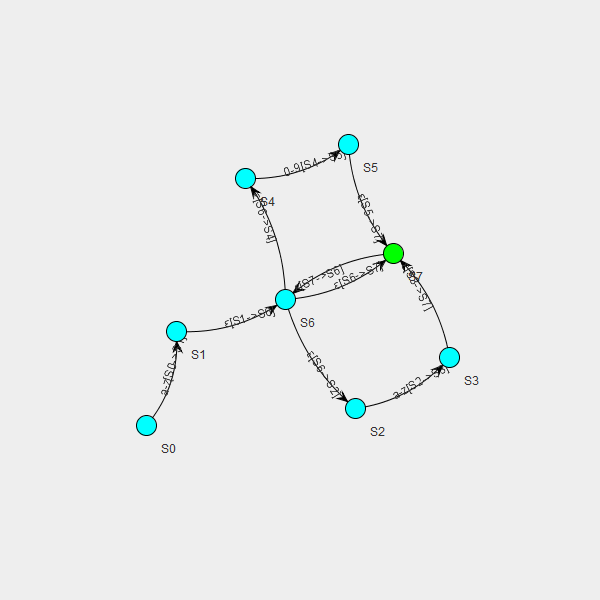
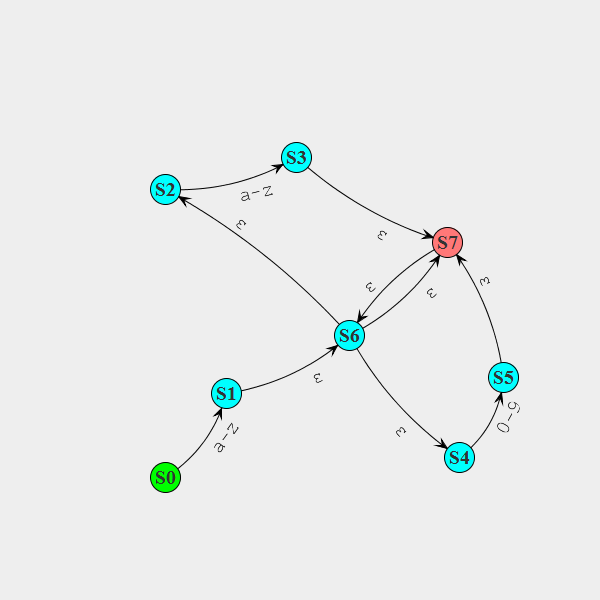
better graphics for partial NFAs

diff --git a/Source/ScannerGenerator.java b/Source/ScannerGenerator.java
@@ -2,8 +2,12 @@ package Source;
 import java.awt.BasicStroke;
 import java.awt.Color;
 import java.awt.Dimension;
+import java.awt.Font;
 import java.awt.Paint;
+import java.awt.Shape;
 import java.awt.Stroke;
+import java.awt.geom.AffineTransform;
+import java.awt.geom.Ellipse2D;
 import java.awt.geom.Point2D;
 import java.awt.image.BufferedImage;
 import java.io.BufferedReader;
@@ -24,13 +28,19 @@ import org.apache.commons.collections15.Transformer;
 import org.apache.commons.collections15.set.ListOrderedSet;
 
 import edu.uci.ics.jung.algorithms.layout.CircleLayout;
+import edu.uci.ics.jung.algorithms.layout.ISOMLayout;
 import edu.uci.ics.jung.algorithms.layout.KKLayout;
 import edu.uci.ics.jung.algorithms.layout.Layout;
 import edu.uci.ics.jung.graph.DirectedSparseMultigraph;
+import edu.uci.ics.jung.graph.Graph;
+import edu.uci.ics.jung.graph.util.Context;
 import edu.uci.ics.jung.graph.util.EdgeType;
 import edu.uci.ics.jung.visualization.BasicVisualizationServer;
 import edu.uci.ics.jung.visualization.VisualizationImageServer;
+import edu.uci.ics.jung.visualization.decorators.EdgeShape;
 import edu.uci.ics.jung.visualization.decorators.ToStringLabeller;
+import edu.uci.ics.jung.visualization.renderers.DefaultEdgeLabelRenderer;
+import edu.uci.ics.jung.visualization.renderers.EdgeLabelRenderer;
 import edu.uci.ics.jung.visualization.renderers.Renderer.VertexLabel.Position;
 
 public class ScannerGenerator {
@@ -192,21 +202,62 @@ public class ScannerGenerator {
 	 * @param title
 	 */
 	private static void drawGraph(DirectedSparseMultigraph<State, String> dgraph, String name, String title) {
-		Layout<State, String> layout = new KKLayout<State, String>(dgraph);
+		Layout<State, String> layout = new ISOMLayout<State, String>(dgraph);
 		BasicVisualizationServer<State, String> viz = new BasicVisualizationServer<State, String>(layout);
 		viz.setPreferredSize(new Dimension(600,600));
+		
+		// Vertex
+		final Font vertexFont = new Font("Times New Roman", Font.BOLD, 20);
+		Transformer<State, Font> vertexFontTransform = new Transformer<State, Font>() {
+			@Override
+			public Font transform(State arg0) {
+				// TODO Auto-generated method stub
+				return vertexFont;
+			}	
+		};
+		viz.getRenderContext().setVertexFontTransformer(vertexFontTransform );
+		
+		final Font edgeFont = new Font(Font.MONOSPACED, Font.PLAIN , 20);
+		Transformer<String, Font> edgeFontTransform = new Transformer<String, Font>() {
+			@Override
+			public Font transform(String s) {
+				// TODO Auto-generated method stub
+				return edgeFont;
+			}
+		};
+		viz.getRenderContext().setEdgeFontTransformer(edgeFontTransform);
+		
+		Transformer<State,Shape> vertexSize = new Transformer<State,Shape>(){
+            public Shape transform(State i){
+                Ellipse2D circle = new Ellipse2D.Double(-15, -15, 30, 30);
+                // in this case, the vertex is twice as large
+//                if(i == 2) return AffineTransform.getScaleInstance(2, 2).createTransformedShape(circle);
+//                else return circle;
+                return circle;
+            }
+        };
+        viz.getRenderContext().setVertexShapeTransformer(vertexSize);
+        
+		
 		viz.getRenderContext().setVertexLabelTransformer(new Transformer<State,String>() {public String transform(State s) {return "S"+s.stateNum;} });
 		viz.getRenderer().getVertexLabelRenderer().setPosition(Position.CNTR);
 		Transformer<State,Paint> vertexPaint = new Transformer<State,Paint>() {
 			public Paint transform(State s) {
-				return s.isFinal ? Color.GREEN : Color.cyan; 
+				if (s.stateNum ==0) return Color.GREEN;
+				return s.isFinal ? new Color(255, 120, 120) : Color.cyan; 
 			}
 		};
-		viz.getRenderContext().setEdgeLabelTransformer(new Transformer<String,String>() {public String transform(String s) {return s;} });
-		viz.getRenderContext().setVertexFillPaintTransformer(vertexPaint);
-//		viz.getRenderContext().setEdgeStrokeTransformer(new Transformer<Character,Stroke>() {public Stroke transform(Character c) {return new BasicStroke();} });
+		viz.getRenderContext().setVertexFillPaintTransformer(vertexPaint); // Green state if final, blue otherwise
 		
-		
+		// Edge
+		viz.getRenderContext().setEdgeLabelTransformer(new Transformer<String,String>() {
+				public String transform(String s) {
+						return s.substring(0,s.indexOf('['));
+					} 
+			}); // Edge label
+//		viz.getRenderContext().setEdgeShapeTransformer(new EdgeShape.Line<State,String>()); // Straight line edges
+//		viz.getRenderContext().setEdgeLabelRenderer(new DefaultEdgeLabelRenderer(Color.blue, true)); // no rotate of edge labels
+		viz.getRenderContext().setLabelOffset(5);
 //		drawImage(viz,title);
 		saveImage(viz,name);
 	}
@@ -225,6 +276,7 @@ public class ScannerGenerator {
 			    new VisualizationImageServer<State, String>(viz.getGraphLayout(),
 			        viz.getGraphLayout().getSize());
 		imageViz.setRenderContext(viz.getRenderContext());
+		imageViz.setRenderer(viz.getRenderer());
 		
 		BufferedImage image = (BufferedImage) imageViz.getImage(
 			    new Point2D.Double(viz.getGraphLayout().getSize().getWidth() / 2,
